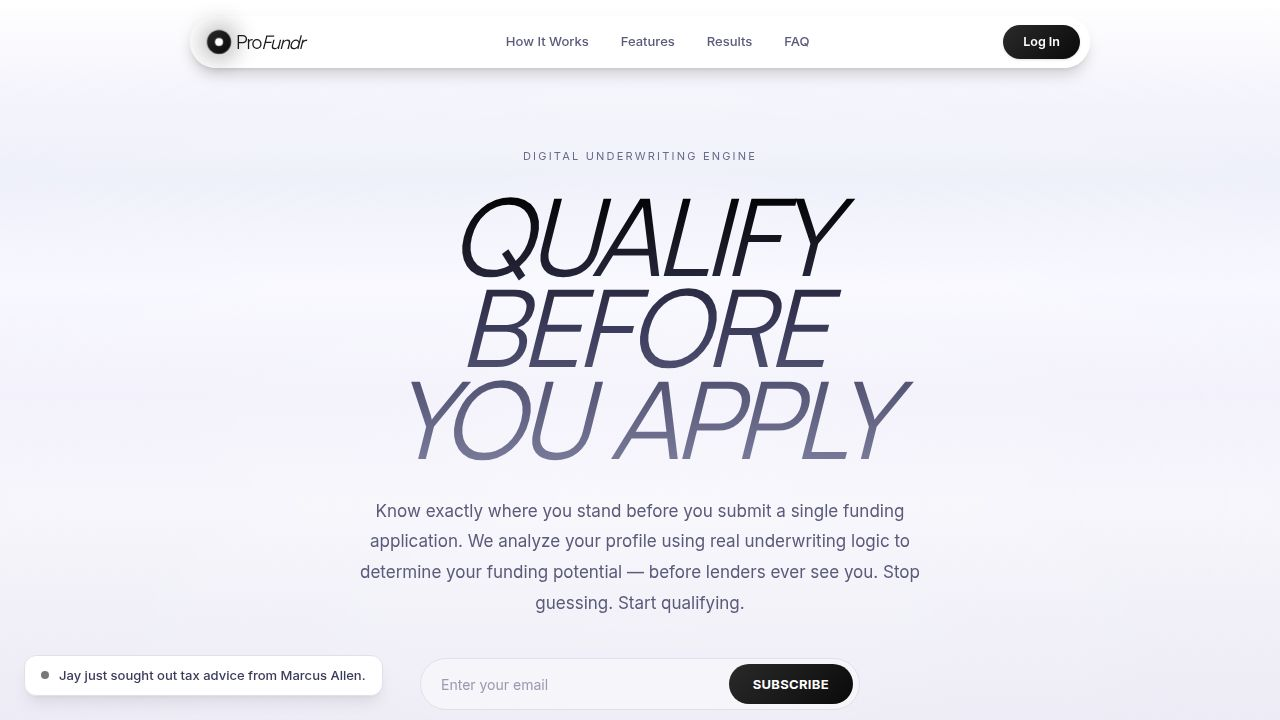
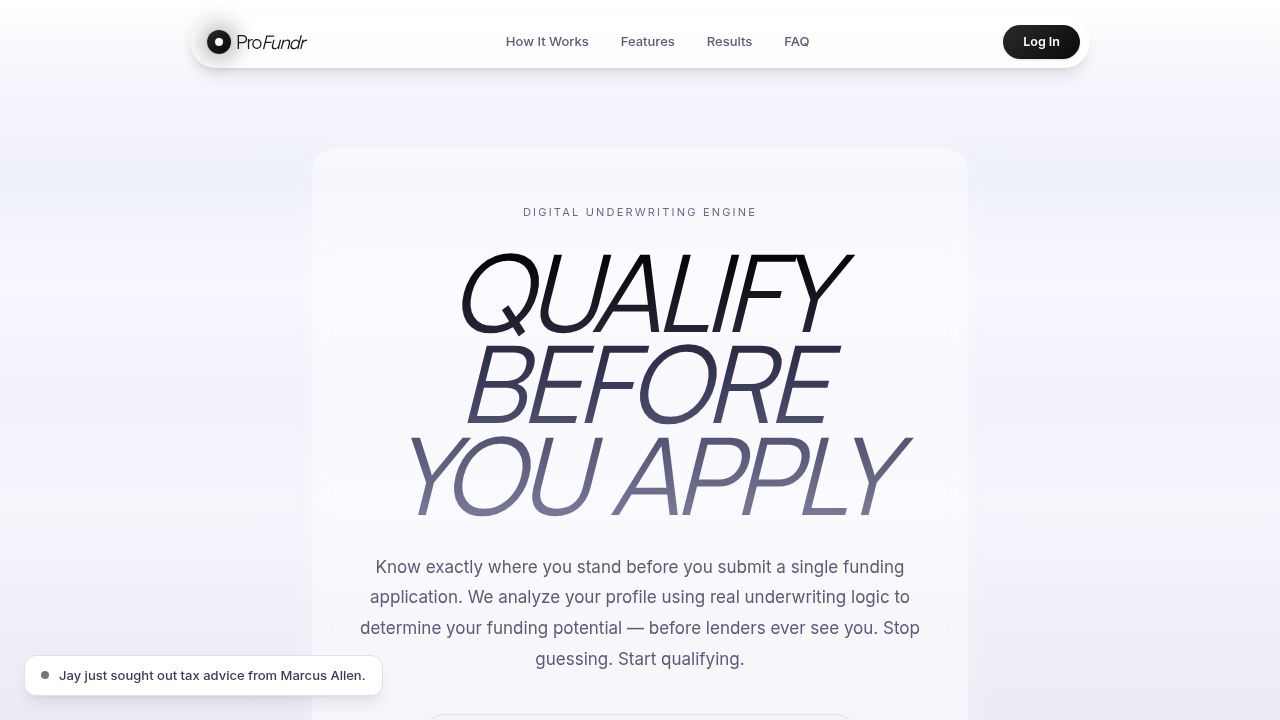
Improve page layout by removing intrusive overlays and dividers
Remove radial gradient overlay from hero section and all sectionBg overlays in landing.tsx.

Replit-Commit-Author: Agent
Replit-Commit-Session-Id: 2925705d-c1b9-4b6c-924a-bb813a4c09f9
Replit-Commit-Checkpoint-Type: full_checkpoint
Replit-Commit-Event-Id: 0e358caf-add7-4b67-a0be-8fc5b20b55a7
Replit-Commit-Screenshot-Url: https://storage.googleapis.com/screenshot-production-us-central1/6cb68abc-05c5-46e4-b0ad-0de8a6638ddd/2925705d-c1b9-4b6c-924a-bb813a4c09f9/IhupzHB
Replit-Helium-Checkpoint-Created: true

Changed region(s): [[0.2812, 0.275, 0.7188, 0.9778], [0.4688, 0.2139, 0.5312, 0.2444], [0.5625, 0.2139, 0.5938, 0.2444]]

diff --git a/client/src/pages/landing.tsx b/client/src/pages/landing.tsx
@@ -228,7 +228,7 @@ export default function LandingPage() {
 
       {/* ═══════════════ 1. HERO ═══════════════ */}
       <section id="sec-hero" className="relative z-20 min-h-[90vh] flex flex-col items-center justify-center px-4 sm:px-12 md:px-20 lg:px-28 py-16 sm:py-20 text-center">
-        <div className="absolute inset-0" style={{ background: 'radial-gradient(ellipse 90% 80% at 50% 50%, rgba(255,255,255,0.35) 0%, rgba(255,255,255,0.15) 50%, transparent 100%)' }} />
+
         <div className="relative max-w-[900px] mx-auto">
           <div className="rounded-2xl sm:rounded-3xl bg-white/50 backdrop-blur-sm px-4 sm:px-12 py-8 sm:py-14 shadow-[0_4px_40px_rgba(255,255,255,0.3)] hover:bg-white/60 hover:shadow-[0_8px_60px_rgba(255,255,255,0.4)] transition-all duration-500">
           <p className="text-[11px] tracking-[0.2em] uppercase text-[#6a6a8a] mb-6" data-testid="text-hero-label">Digital Underwriting Engine</p>
